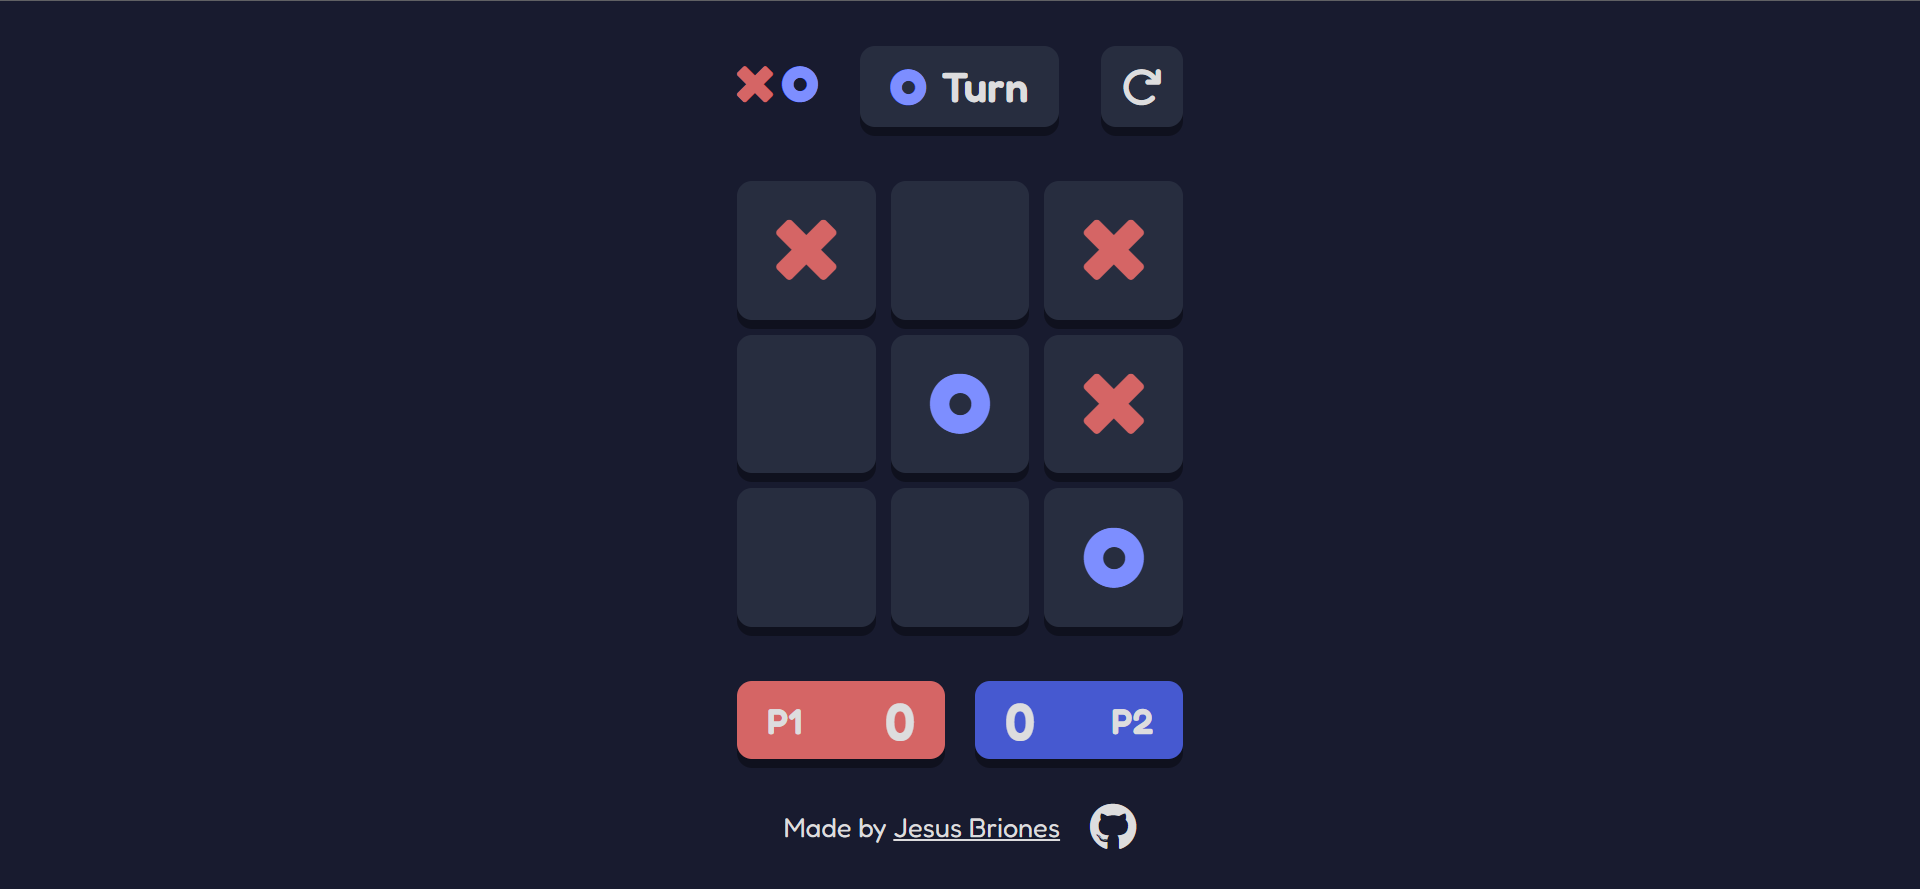
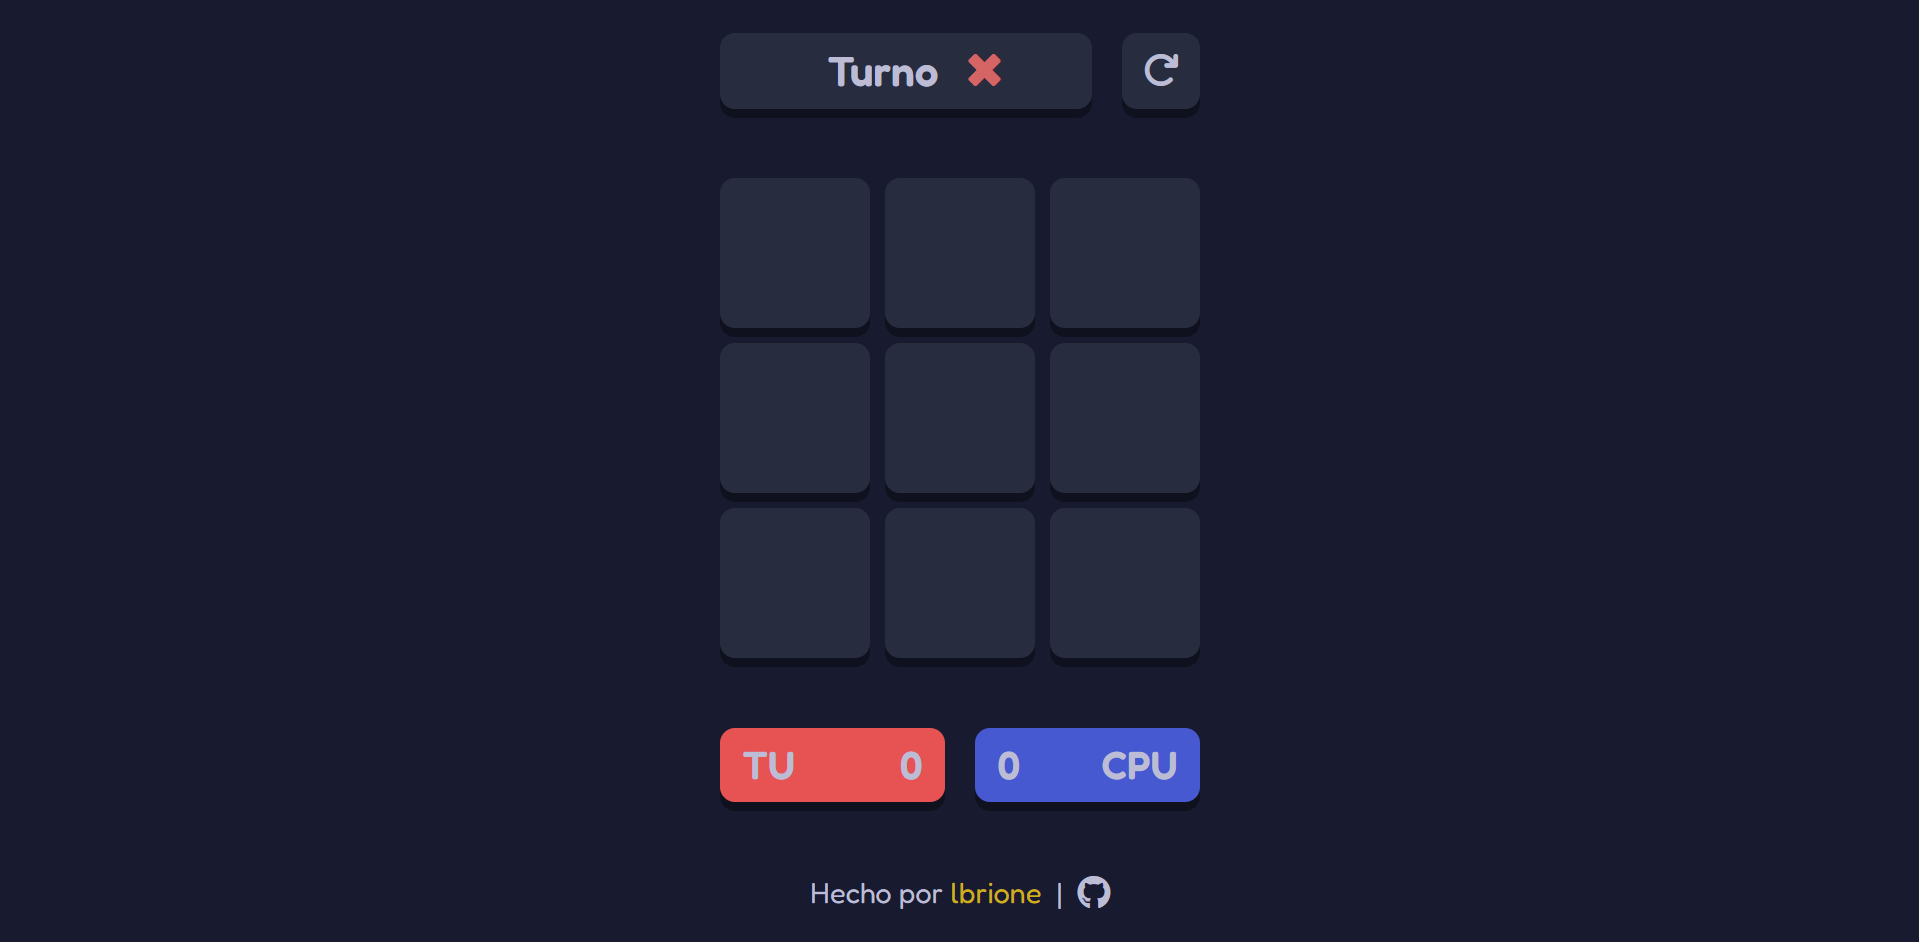
Actualización del readme

diff --git a/README.md b/README.md
@@ -1,7 +1,7 @@
 # Tic Tac Toe
-Tic-Tac-Toe Game: A Responsive Implementation Using HTML, CSS, and JavaScript
+Juego de Tic-Tac-Toe: Una Implementación Responsiva Usando HTML, CSS y JavaScript
 
-* [Game page: ](https://jesusbriones2.github.io/Tic-Tac-Toe/)
+* [Ir al juego](https://lbrione.github.io/tic-tac-toe/)
 
 
 ![Screenshot of the page.](./src/img/picture.png "Screenshot of the page.")
